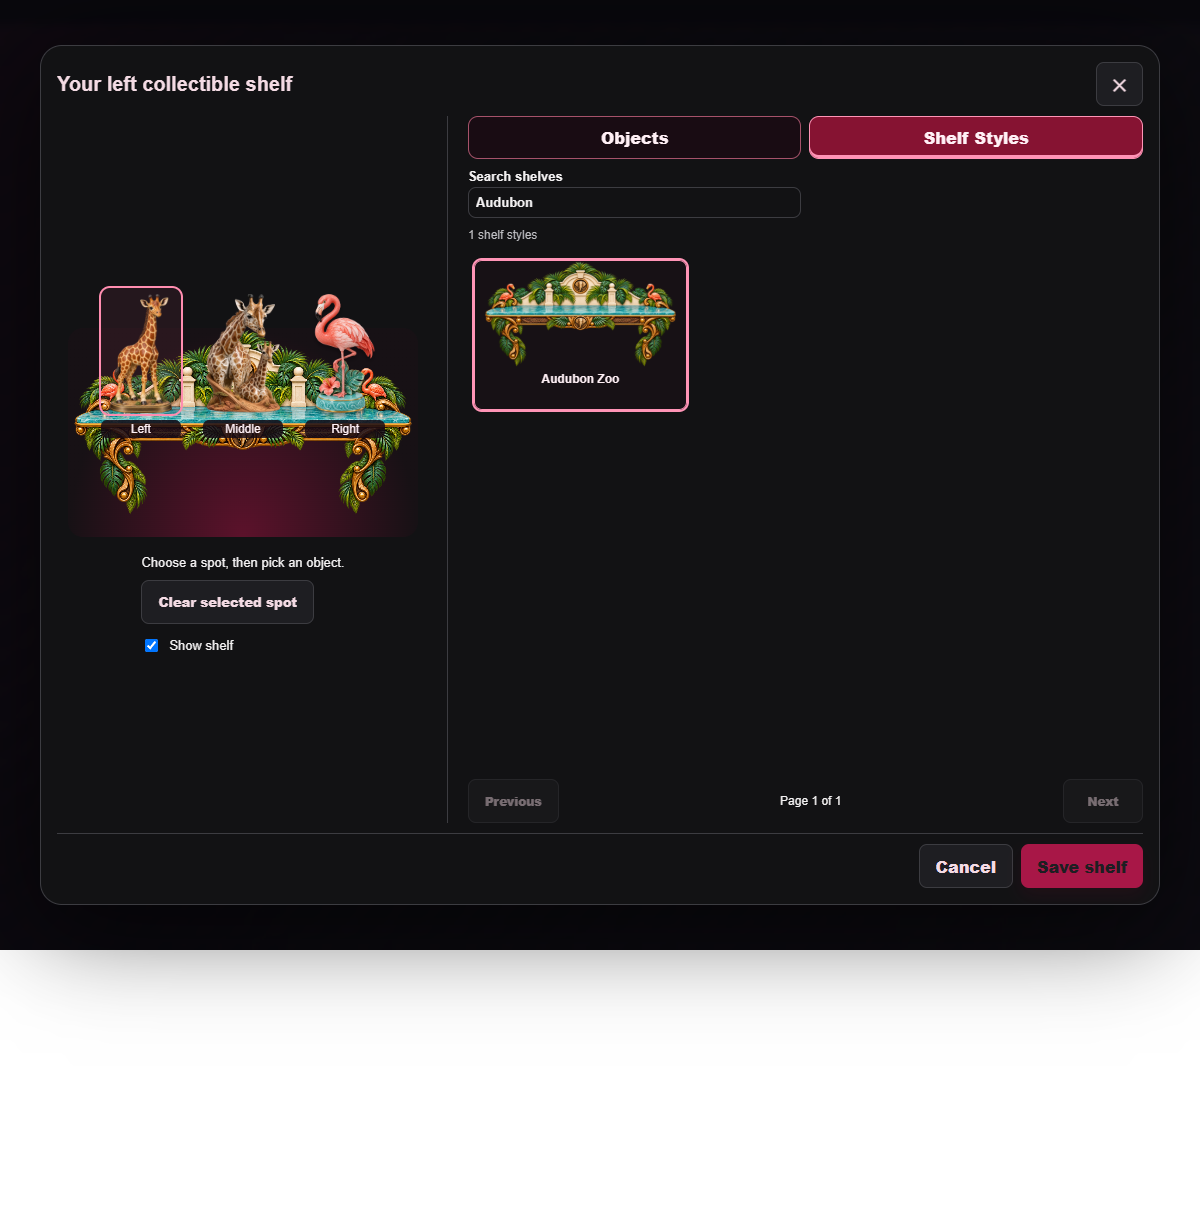
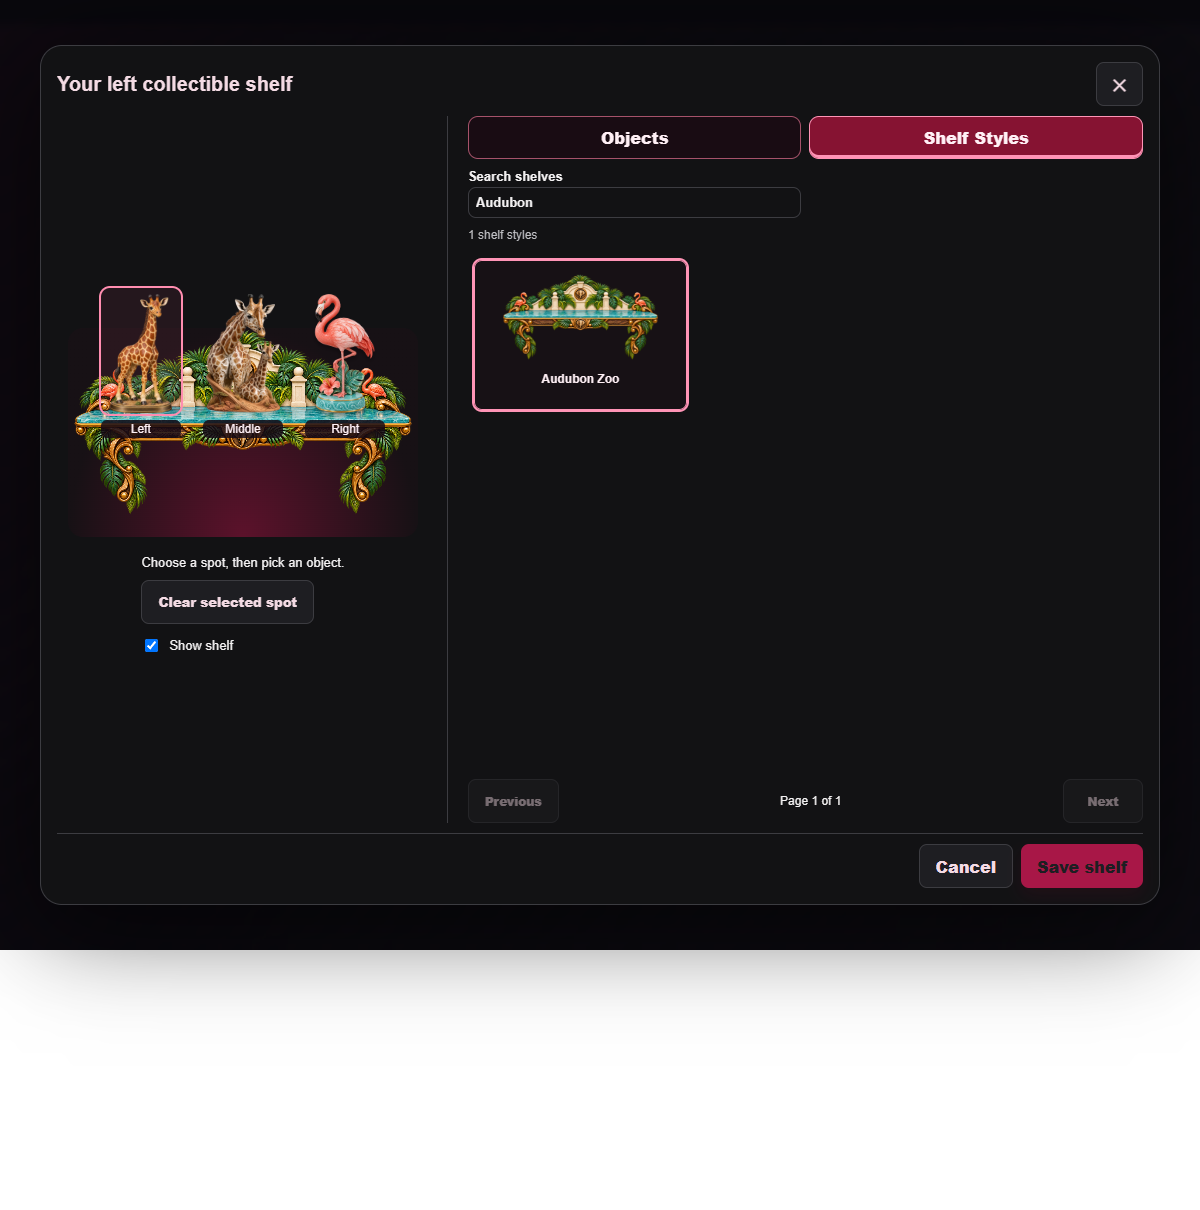
Fix Audubon Zoo shelf thumbnail spacing

Changed region(s): [[0.4008, 0.214, 0.5858, 0.3058]]

diff --git a/collectible-shelf.css b/collectible-shelf.css
@@ -232,7 +232,7 @@
 .shelf-dialog .shelf-theme-grid .collectible-shelf { width:min(100%,170px); height:calc(var(--shelf-card-height) - 60px); aspect-ratio:auto; margin:auto; flex-shrink:0; }
 .shelf-dialog .shelf-theme-grid .collectible-shelf > .shelf-board { background-size:contain; background-position:center; }
 /* Let the full zoo artwork fill its card without changing tabletop placement. */
-.shelf-dialog .shelf-theme-grid .collectible-shelf[data-shelf-theme="audubon-zoo"] { width:100%; height:calc(var(--shelf-card-height) - 48px); }
+.shelf-dialog .shelf-theme-grid .collectible-shelf[data-shelf-theme="audubon-zoo"] { width:100%; height:calc(var(--shelf-card-height) - 68px); }
 .shelf-dialog .shelf-theme-grid strong { min-height:2.6em; font-size:12px; }
 .shelf-pagination { display:flex; justify-content:space-between; align-items:center; gap:8px; font-size:12px; }
 .shelf-pagination button { min-width:80px; }

diff --git a/index.html b/index.html
@@ -20,7 +20,7 @@
   <link rel="stylesheet" href="minibike-track.css?v=20261008-brighter-sun-v2">
   <link rel="stylesheet" href="scene-motion-tuning.css?v=20261011-casita-windows-v6">
   <link rel="stylesheet" href="audubon-zoo.css?v=20261009-v1">
-  <link rel="stylesheet" href="collectible-shelf.css?v=20261011-zoo-fit-v48">
+  <link rel="stylesheet" href="collectible-shelf.css?v=20261011-zoo-card-padding-v49">
 </head>
 <body>
   <main id="app" class="app-shell"></main>
